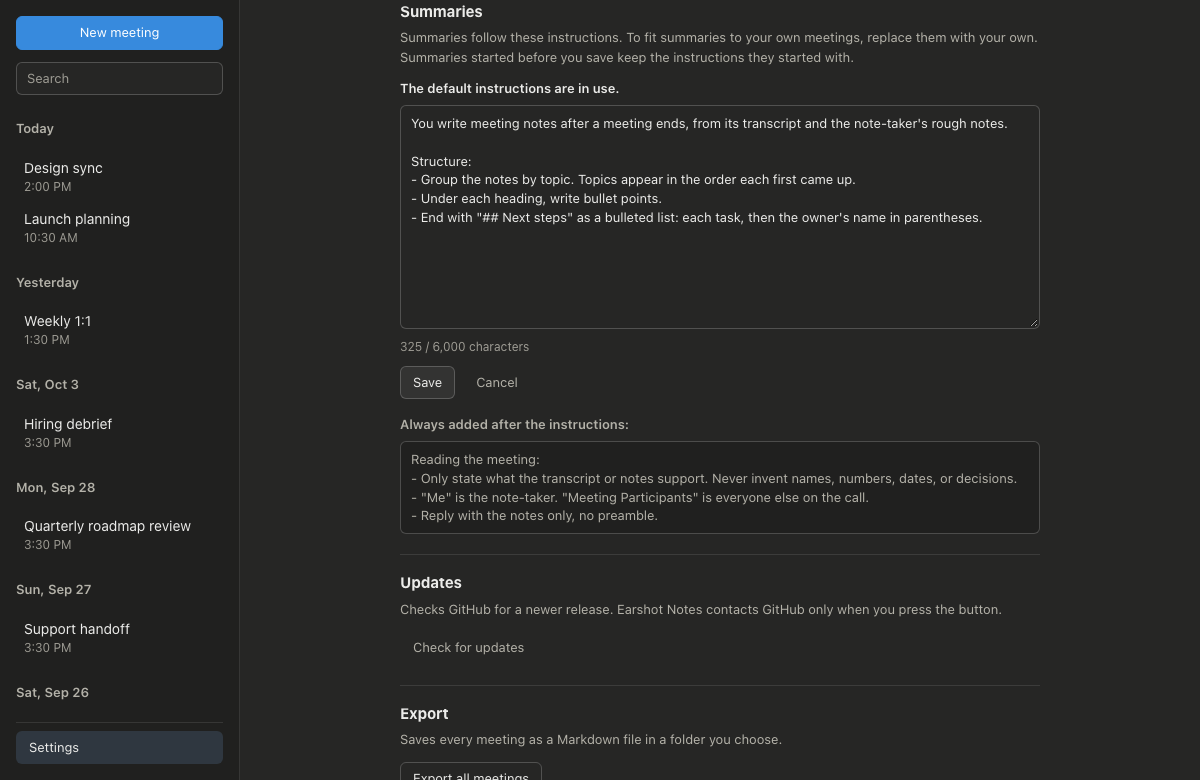
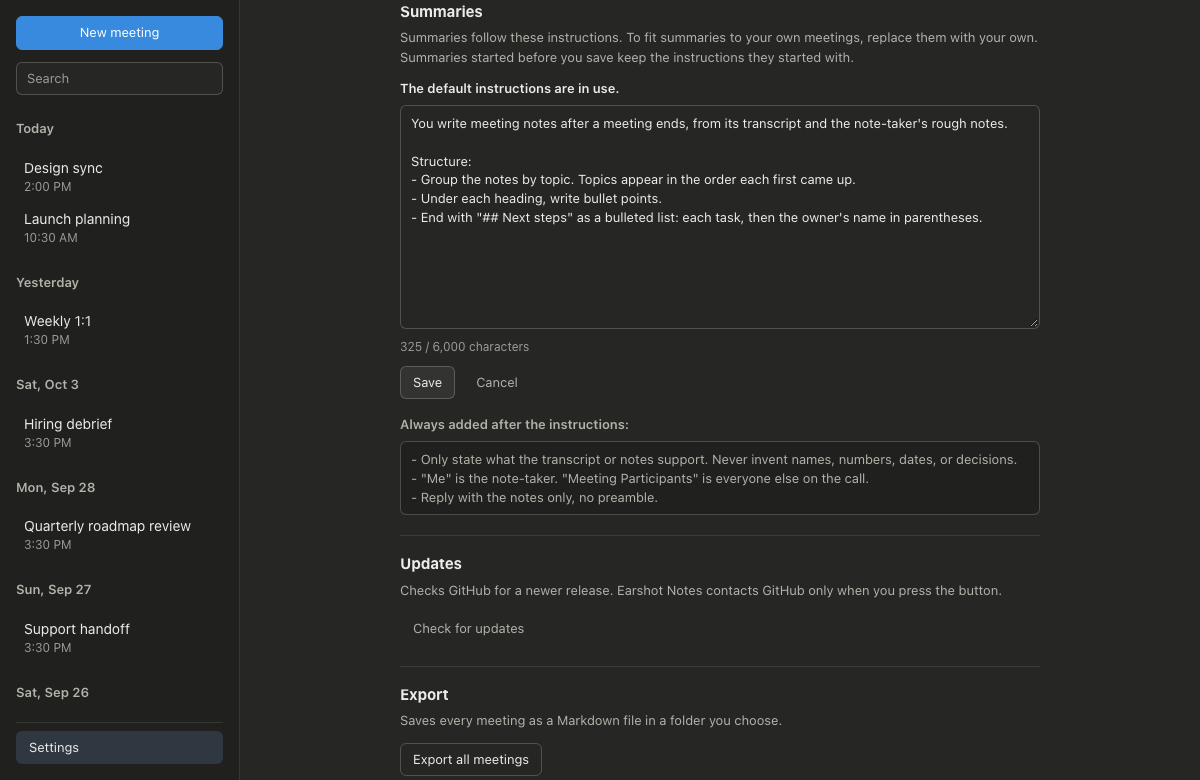
#161: Add the reading rules without a heading so the default prompt is unchanged
A separate "Reading the meeting:" section made Qwen3.5 4B write only
next steps for the long, noisy returning-topic meeting in summary_eval
(10 of 19 specifics at --pad 30 and 40), dropping the total from 332 to
315 of 352 over 24 runs. The rules now continue the instructions' last
list, so the default system prompt is byte-identical to before, and all
24 runs reproduce the previous notes and titles exactly.

Changed region(s): [[0.3392, 0.7077, 0.8325, 0.8615], [0.3392, 0.5846, 0.8633, 0.6769], [0.3392, 0.8615, 0.6475, 1.0]]

diff --git a/src/testing/fakeBackend.ts b/src/testing/fakeBackend.ts
@@ -22,8 +22,7 @@ Structure:
 - Group the notes by topic. Topics appear in the order each first came up.
 - Under each heading, write bullet points.
 - End with "## Next steps" as a bulleted list: each task, then the owner's name in parentheses.`;
-export const FAKE_READING_RULES = `Reading the meeting:
-- Only state what the transcript or notes support. Never invent names, numbers, dates, or decisions.
+export const FAKE_READING_RULES = `- Only state what the transcript or notes support. Never invent names, numbers, dates, or decisions.
 - "Me" is the note-taker. "Meeting Participants" is everyone else on the call.
 - Reply with the notes only, no preamble.`;
 const MAX_INSTRUCTION_CHARS = 6000;

diff --git a/src-tauri/src/summarize/prompt.rs b/src-tauri/src/summarize/prompt.rs
@@ -30,8 +30,10 @@ Content:
 
 /// How to read the meeting data, added after the instructions in use, custom
 /// or default, so custom instructions can't change how the input is read.
-pub const READING_RULES: &str = "Reading the meeting:
-- The transcript comes from speech recognition and misspells names. When the note-taker's notes or the meeting title spell a name differently from the transcript, such as \"Lindgren\" in the notes and \"Lindgrin\" in the transcript, always use the notes' spelling.
+/// They continue the default's last list without a heading of their own:
+/// a separate "Reading the meeting" section made Qwen3.5 4B write only next
+/// steps for long, noisy meetings (#161).
+pub const READING_RULES: &str = "- The transcript comes from speech recognition and misspells names. When the note-taker's notes or the meeting title spell a name differently from the transcript, such as \"Lindgren\" in the notes and \"Lindgrin\" in the transcript, always use the notes' spelling.
 - Only state what the transcript or notes support. Never invent names, numbers, dates, or decisions.
 - \"Me\" is the note-taker. \"Meeting Participants\" is everyone else on the call; use their names when the transcript gives them.
 - Attribute each statement and task to whoever said or took it on. A task is yours only when a \"Me\" line takes it on; when a participant says \"I'll do it\", it's theirs.
@@ -102,7 +104,7 @@ fn notes_section(notes_markdown: &str) -> String {
 /// The system message that writes the notes: the instructions in use, then
 /// the reading rules.
 fn notes_system(instructions: &str) -> Message {
-    Message::system(format!("{}\n\n{READING_RULES}", instructions.trim()))
+    Message::system(format!("{}\n{READING_RULES}", instructions.trim()))
 }
 
 /// One pass over the whole transcript.
@@ -289,15 +291,26 @@ mod tests {
         for messages in &messages {
             assert_eq!(
                 messages[0].content,
-                format!("List decisions only.\n\n{READING_RULES}")
+                format!("List decisions only.\n{READING_RULES}")
             );
         }
 
         let default = &summary_messages(DEFAULT_INSTRUCTIONS, "Sync", "", &[], "")[0].content;
-        assert_eq!(
-            *default,
-            format!("{DEFAULT_INSTRUCTIONS}\n\n{READING_RULES}")
+        assert_eq!(*default, format!("{DEFAULT_INSTRUCTIONS}\n{READING_RULES}"));
+    }
+
+    #[test]
+    fn continues_the_default_list_with_the_rules_instead_of_a_new_section() {
+        let system = &summary_messages(DEFAULT_INSTRUCTIONS, "Sync", "", &[], "")[0].content;
+
+        assert!(
+            system.contains(
+                "unless someone says the earlier point was wrong.\n- The transcript comes from speech recognition"
+            ),
+            "{system}"
         );
+        assert!(DEFAULT_INSTRUCTIONS.ends_with('.'));
+        assert!(READING_RULES.starts_with("- "));
     }
 
     #[test]

diff --git a/src-tauri/src/llm/worker.rs b/src-tauri/src/llm/worker.rs
@@ -878,15 +878,15 @@ mod tests {
         let systems = h.systems.lock().unwrap();
         let notes: Vec<_> = systems
             .iter()
-            .filter(|s| s.contains("Reading the meeting:"))
+            .filter(|s| s.contains("Never invent"))
             .collect();
         assert_eq!(notes.len(), 2, "{systems:?}");
         assert!(
-            notes[0].starts_with("List decisions only.\n\n"),
+            notes[0].starts_with("List decisions only.\n- "),
             "{}",
             notes[0]
         );
-        assert!(notes[1].starts_with("List risks only.\n\n"), "{}", notes[1]);
+        assert!(notes[1].starts_with("List risks only.\n- "), "{}", notes[1]);
     }
 
     #[test]

diff --git a/src-tauri/src/summarize/run.rs b/src-tauri/src/summarize/run.rs
@@ -349,7 +349,7 @@ mod tests {
 
         assert_eq!(
             model.systems,
-            vec![format!("List decisions only.\n\n{READING_RULES}")]
+            vec![format!("List decisions only.\n{READING_RULES}")]
         );
     }
 
@@ -362,7 +362,7 @@ mod tests {
             .unwrap();
 
         let (last, parts) = model.systems.split_last().unwrap();
-        assert_eq!(*last, format!("List decisions only.\n\n{READING_RULES}"));
+        assert_eq!(*last, format!("List decisions only.\n{READING_RULES}"));
         assert_eq!(parts.len(), 2);
         for part in parts {
             assert!(!part.contains("List decisions only."), "{part}");
